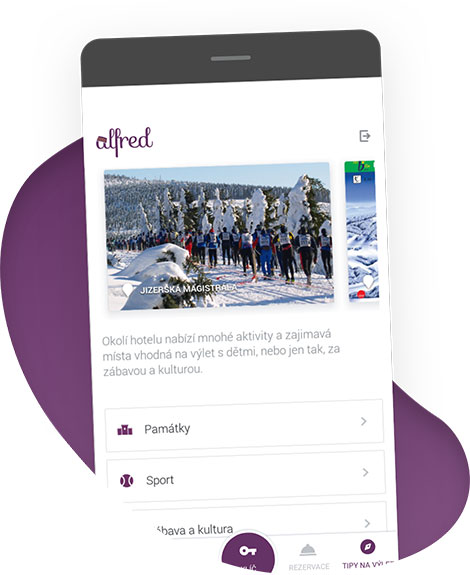
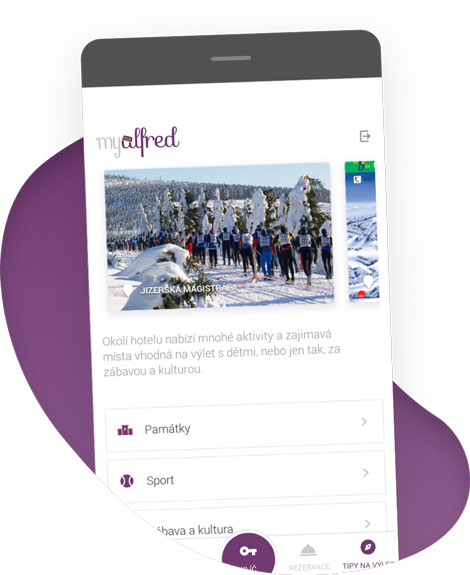
update

diff --git a/cookies.html b/cookies.html
@@ -20,7 +20,7 @@
             <a href="index.html"><img src="images/myAlfred-logo.svg" alt="Alfred logo"></a>
 		</div>
 		<div class="logo-mobile">
-			<a href="index.html"><img src="images/alfredwhite-logo.svg" alt="Alfred logo"></a>
+            <a href="index.html"><img src="images/myAlfred-logo-white.svg" alt="Alfred logo"></a>
 		</div>
 	</div>
 </header>

diff --git a/osobni-udaje.html b/osobni-udaje.html
@@ -20,7 +20,7 @@
             <a href="index.html"><img src="images/myAlfred-logo.svg" alt="Alfred logo"></a>
 		</div>
 		<div class="logo-mobile">
-			<a href="index.html"><img src="images/alfredwhite-logo.svg" alt="Alfred logo"></a>
+            <a href="index.html"><img src="images/myAlfred-logo-white.svg" alt="Alfred logo"></a>
 		</div>
 	</div>
 </header>

diff --git a/index.html b/index.html
@@ -19,7 +19,7 @@
 			<a href="index.html"><img src="images/myAlfred-logo.svg" alt="Alfred logo"></a>
 		</div>
 		<div class="logo-mobile">
-			<a href="index.html"><img src="images/alfredwhite-logo.svg" alt="Alfred logo"></a>
+			<a href="index.html"><img src="images/myAlfred-logo-white.svg" alt="Alfred logo"></a>
 		</div>
 	</div>
 </header>

diff --git a/js/custom.js b/js/custom.js
@@ -113,7 +113,6 @@ $(document).ready(function() {
         $(window).on('scroll', function() {
             if ($(this).scrollTop() > 0) {
                 $('.top_claim').slideUp(1000);
-                //$('#top').css("padding-top","0");
             } else {
                 $('.top_claim').slideDown(1000);
             }
